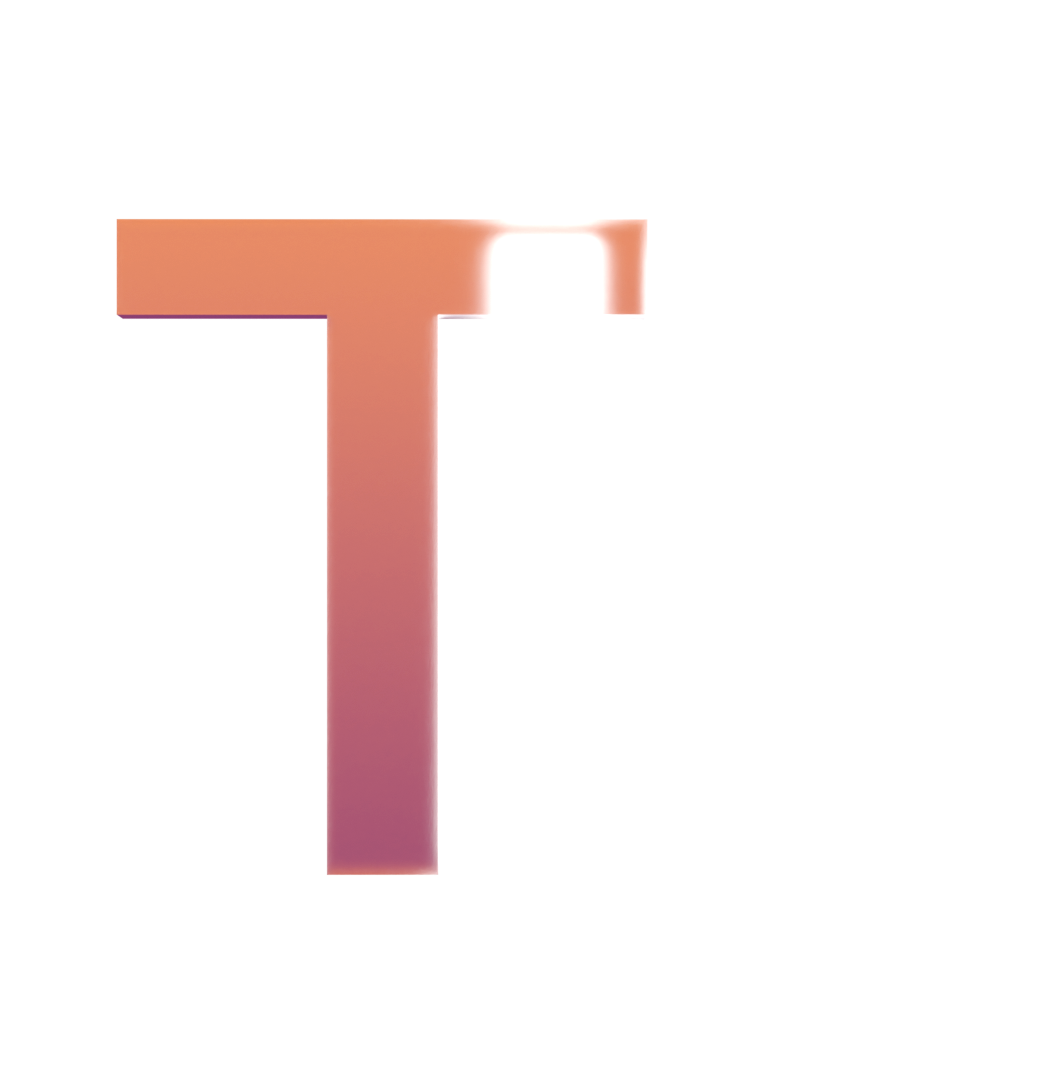
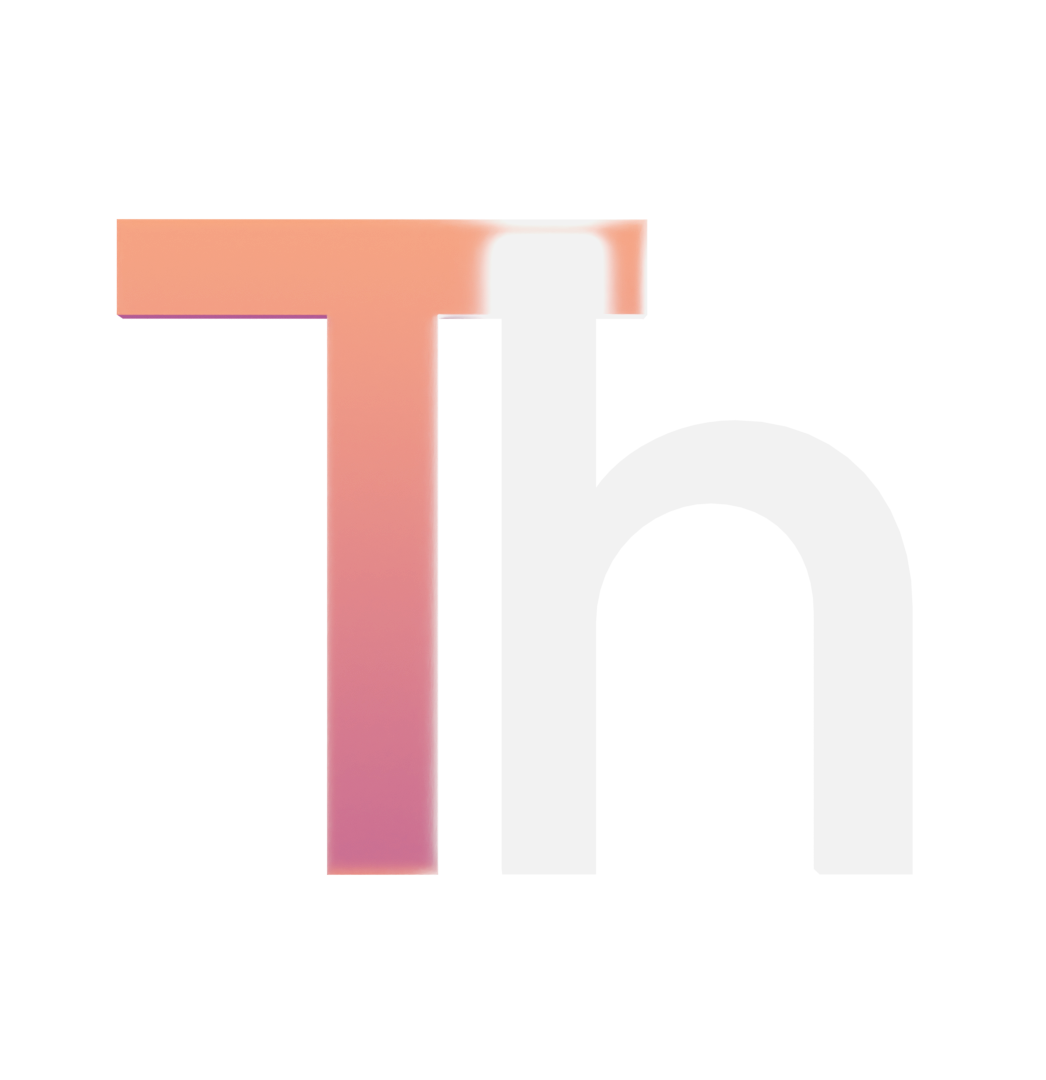
✨ グラデーションカラーを実装しました．

Changed region(s): [[0.0918, 0.1833, 0.4589, 0.825], [0.5813, 0.1833, 0.6119, 0.3056]]

diff --git a/tailwind.config.js b/tailwind.config.js
@@ -1,57 +1,61 @@
 /** @type {import('tailwindcss').Config} */
 export default {
-    darkMode: ["class"],
-    content: ["./index.html", "./src/**/*.{ts,tsx,js,jsx}"],
+  darkMode: ["class"],
+  content: ["./index.html", "./src/**/*.{ts,tsx,js,jsx}"],
   theme: {
-  	extend: {
-  		borderRadius: {
-  			lg: 'var(--radius)',
-  			md: 'calc(var(--radius) - 2px)',
-  			sm: 'calc(var(--radius) - 4px)'
-  		},
-  		colors: {
-  			background: 'hsl(var(--background))',
-  			foreground: 'hsl(var(--foreground))',
-  			card: {
-  				DEFAULT: 'hsl(var(--card))',
-  				foreground: 'hsl(var(--card-foreground))'
-  			},
-  			popover: {
-  				DEFAULT: 'hsl(var(--popover))',
-  				foreground: 'hsl(var(--popover-foreground))'
-  			},
-  			primary: {
-  				DEFAULT: 'hsl(var(--primary))',
-  				foreground: 'hsl(var(--primary-foreground))'
-  			},
-  			secondary: {
-  				DEFAULT: 'hsl(var(--secondary))',
-  				foreground: 'hsl(var(--secondary-foreground))'
-  			},
-  			muted: {
-  				DEFAULT: 'hsl(var(--muted))',
-  				foreground: 'hsl(var(--muted-foreground))'
-  			},
-  			accent: {
-  				DEFAULT: 'hsl(var(--accent))',
-  				foreground: 'hsl(var(--accent-foreground))'
-  			},
-  			destructive: {
-  				DEFAULT: 'hsl(var(--destructive))',
-  				foreground: 'hsl(var(--destructive-foreground))'
-  			},
-  			border: 'hsl(var(--border))',
-  			input: 'hsl(var(--input))',
-  			ring: 'hsl(var(--ring))',
-  			chart: {
-  				'1': 'hsl(var(--chart-1))',
-  				'2': 'hsl(var(--chart-2))',
-  				'3': 'hsl(var(--chart-3))',
-  				'4': 'hsl(var(--chart-4))',
-  				'5': 'hsl(var(--chart-5))'
-  			}
-  		}
-  	}
+    extend: {
+      backgroundImage: {
+        "primary-gradient":
+          "linear-gradient(90deg, var(--primary-gr-l), var(--primary-gr-r))",
+      },
+      borderRadius: {
+        lg: "var(--radius)",
+        md: "calc(var(--radius) - 2px)",
+        sm: "calc(var(--radius) - 4px)",
+      },
+      colors: {
+        background: "hsl(var(--background))",
+        foreground: "hsl(var(--foreground))",
+        card: {
+          DEFAULT: "hsl(var(--card))",
+          foreground: "hsl(var(--card-foreground))",
+        },
+        popover: {
+          DEFAULT: "hsl(var(--popover))",
+          foreground: "hsl(var(--popover-foreground))",
+        },
+        primary: {
+          DEFAULT: "hsl(var(--primary))",
+          foreground: "hsl(var(--primary-foreground))",
+        },
+        secondary: {
+          DEFAULT: "hsl(var(--secondary))",
+          foreground: "hsl(var(--secondary-foreground))",
+        },
+        muted: {
+          DEFAULT: "hsl(var(--muted))",
+          foreground: "hsl(var(--muted-foreground))",
+        },
+        accent: {
+          DEFAULT: "hsl(var(--accent))",
+          foreground: "hsl(var(--accent-foreground))",
+        },
+        destructive: {
+          DEFAULT: "hsl(var(--destructive))",
+          foreground: "hsl(var(--destructive-foreground))",
+        },
+        border: "hsl(var(--border))",
+        input: "hsl(var(--input))",
+        ring: "hsl(var(--ring))",
+        chart: {
+          1: "hsl(var(--chart-1))",
+          2: "hsl(var(--chart-2))",
+          3: "hsl(var(--chart-3))",
+          4: "hsl(var(--chart-4))",
+          5: "hsl(var(--chart-5))",
+        },
+      },
+    },
   },
   plugins: [require("tailwindcss-animate")],
 };

diff --git a/src/index.css b/src/index.css
@@ -27,7 +27,7 @@
   }
 }
 
-@layer base {
+/* @layer base {
   :root {
     --background: 0 0% 100%;
     --foreground: 20 14.3% 4.1%;
@@ -80,6 +80,68 @@
     --chart-3: 30 80% 55%;
     --chart-4: 280 65% 60%;
     --chart-5: 340 75% 55%;
+  }
+} */
+
+@layer base {
+  :root {
+    --background: 0 0% 100%;
+    --foreground: 20 14.3% 4.1%;
+    --card: 0 0% 100%;
+    --card-foreground: 20 14.3% 4.1%;
+    --popover: 0 0% 100%;
+    --popover-foreground: 20 14.3% 4.1%;
+    /* --primary: 24.6 95% 53.1%; */
+    --primary: linear-gradient(90deg, var(--primary-gr-l), var(--primary-gr-r));
+    --primary-foreground: 60 9.1% 97.8%;
+    --secondary: 60 4.8% 95.9%;
+    --secondary-foreground: 24 9.8% 10%;
+    --muted: 60 4.8% 95.9%;
+    --muted-foreground: 25 5.3% 44.7%;
+    --accent: 60 4.8% 95.9%;
+    --accent-foreground: 24 9.8% 10%;
+    --destructive: 0 84.2% 60.2%;
+    --destructive-foreground: 60 9.1% 97.8%;
+    --border: 20 5.9% 90%;
+    --input: 20 5.9% 90%;
+    --ring: 24.6 95% 53.1%;
+    --radius: 0.5rem;
+    --chart-1: 12 76% 61%;
+    --chart-2: 173 58% 39%;
+    --chart-3: 197 37% 24%;
+    --chart-4: 43 74% 66%;
+    --chart-5: 27 87% 67%;
+    --primary-gr-l: #f4a284;
+    --primary-gr-r: #cd7291;
+  }
+
+  .dark {
+    --background: 20 14.3% 4.1%;
+    --foreground: 60 9.1% 97.8%;
+    --card: 20 14.3% 4.1%;
+    --card-foreground: 60 9.1% 97.8%;
+    --popover: 20 14.3% 4.1%;
+    --popover-foreground: 60 9.1% 97.8%;
+    --primary: 20.5 90.2% 48.2%;
+    --primary-foreground: 60 9.1% 97.8%;
+    --secondary: 12 6.5% 15.1%;
+    --secondary-foreground: 60 9.1% 97.8%;
+    --muted: 12 6.5% 15.1%;
+    --muted-foreground: 24 5.4% 63.9%;
+    --accent: 12 6.5% 15.1%;
+    --accent-foreground: 60 9.1% 97.8%;
+    --destructive: 0 72.2% 50.6%;
+    --destructive-foreground: 60 9.1% 97.8%;
+    --border: 12 6.5% 15.1%;
+    --input: 12 6.5% 15.1%;
+    --ring: 20.5 90.2% 48.2%;
+    --chart-1: 220 70% 50%;
+    --chart-2: 160 60% 45%;
+    --chart-3: 30 80% 55%;
+    --chart-4: 280 65% 60%;
+    --chart-5: 340 75% 55%;
+    --primary-gr-l: #f4a284;
+    --primary-gr-r: #cd7291;
   }
 }
 

diff --git a/src/pages/LP.tsx b/src/pages/LP.tsx
@@ -1,10 +1,19 @@
 import * as Layout from "@/components/layouts/index.tsx";
+import { Button } from "@/components/ui/button";
 
 const LP = () => {
   return (
     <>
-      <Layout.Title title="テスト">
-        <div>test</div>
+      <Layout.Title title="アクティビティデータから睡眠状態を解析します。">
+        <div className="my-4 flex flex-col items-center text-muted-foreground">
+          <p>
+            Thorはスマートフォンで計測されたアクティビティデータのみを用いて、
+          </p>
+          <p>睡眠状態を推定するシステムです。</p>
+          <Button className="mt-4 w-52 bg-primary-gradient transition-all duration-100 hover:opacity-80">
+            始める
+          </Button>
+        </div>
       </Layout.Title>
       <Layout.Content>
         <div>内容</div>

diff --git a/src/components/layouts/Header/Header.tsx b/src/components/layouts/Header/Header.tsx
@@ -5,7 +5,7 @@ const Header = () => {
   return (
     <div className="fixed top-0 z-50 w-full border-b border-border/40 bg-background/95 backdrop-blur supports-[backdrop-filter]:bg-background/60">
       <div className="mx-10 flex h-14 items-center justify-between">
-        <img src="imgs/Thor_dark.png" className="size-14" alt="" />
+        <img src="imgs/Thor.png" className="size-14" alt="" />
         <div>
           <ul className="flex gap-2">
             <li>

diff --git a/src/components/layouts/Title/Title.tsx b/src/components/layouts/Title/Title.tsx
@@ -7,10 +7,10 @@ interface TitleTypes {
 
 const Title = ({ children, title }: TitleTypes) => {
   return (
-    <>
-      <div>{title}</div>
-      <div>{children}</div>
-    </>
+    <div className="gap-4">
+      <p className="max-w-screen-md text-center text-6xl font-bold">{title}</p>
+      <>{children}</>
+    </div>
   );
 };
 

diff --git a/src/App.tsx b/src/App.tsx
@@ -5,8 +5,10 @@ function App() {
   return (
     <>
       <div className="h-14"></div>
-      <div>
-        <LP />
+      <div className="m-20 flex justify-center">
+        <div className="bg-slate-600a flex w-[840px] max-w-6xl flex-col items-center">
+          <LP />
+        </div>
       </div>
     </>
   );
